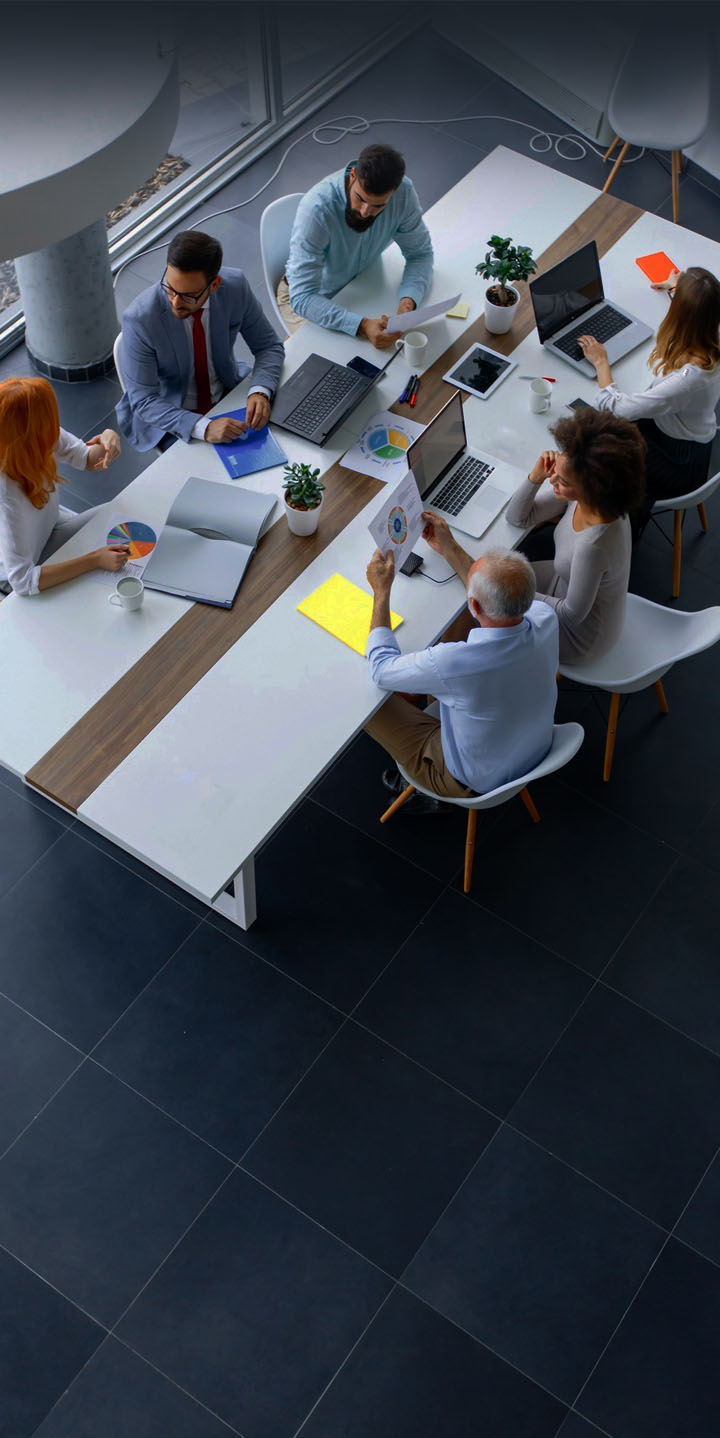
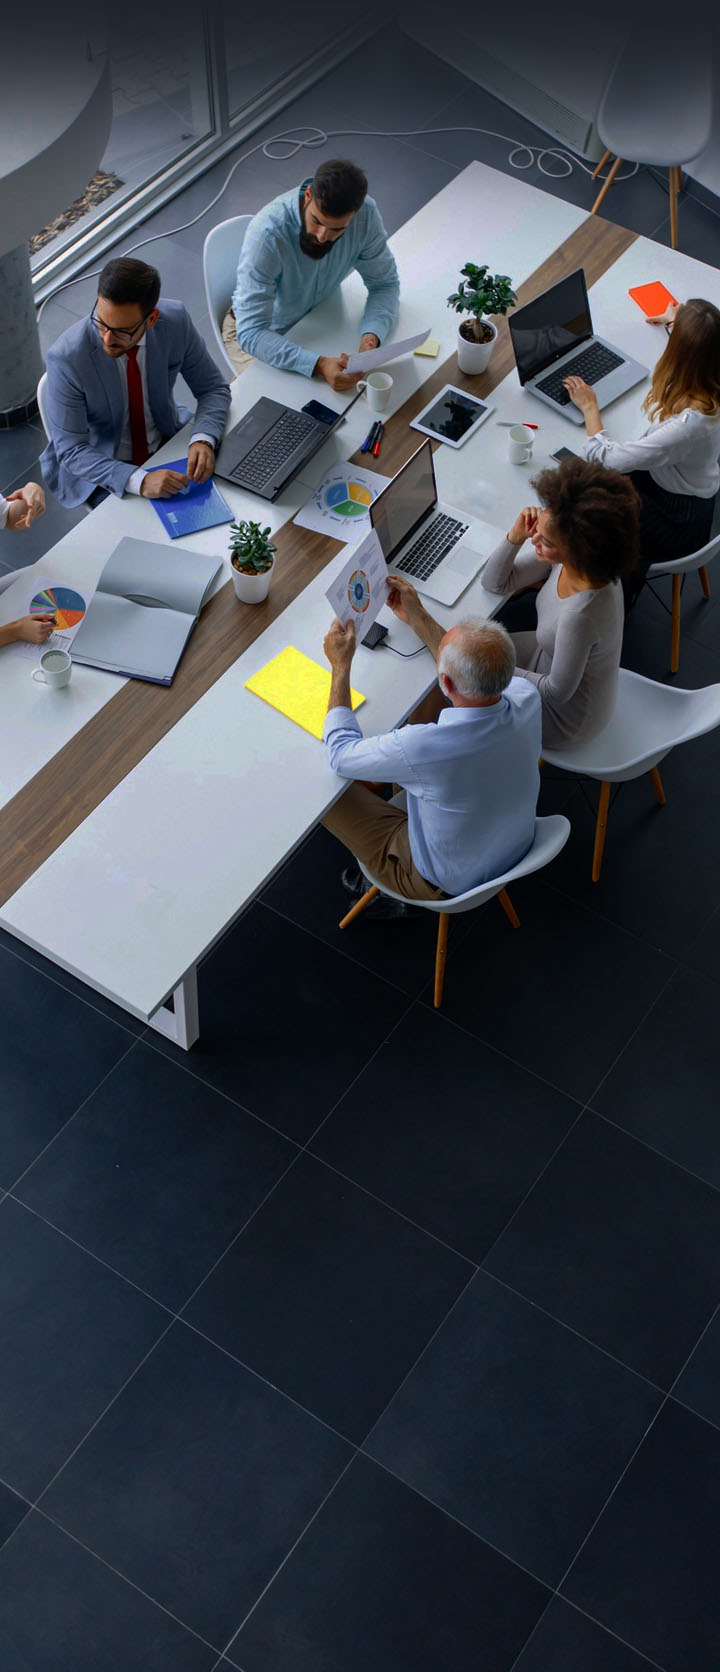
init

diff --git a/frontend/src/public/components/Banner/m-banner.css b/frontend/src/public/components/Banner/m-banner.css
@@ -47,17 +47,6 @@
     transition: all 2.5s ease;
 }
 
-.Banner__logo-nai-full{
-    position: absolute;
-    display: inline-block;
-    top: 79vw; 
-    left: 21vw;
-    width: 50vw;
-    height: auto;
-    filter: grayscale(1);
-    opacity: .75;
-}
-
 .banner__slogan {
     position: absolute;
     display: inline-block;
@@ -82,6 +71,17 @@
     color: rgb(170, 181, 187);
 }
 
+.Banner__logo-nai-full {
+    position: absolute;
+    display: inline-block;
+    top: 79vw; 
+    left: 21vw;
+    width: 50vw;
+    height: auto;
+    filter: grayscale(1);
+    opacity: .3;
+}
+
 .banner__logo-nai2 {
     position: absolute;
     display: inline-block;
@@ -89,7 +89,7 @@
     left: -40vw;
     width: 150vw;
     height: auto;
-    opacity: .5;
+    opacity: .3;
     filter: brightness(60%) grayscale(1);
 }
 

diff --git a/frontend/src/public/components/Banner/d-banner.css b/frontend/src/public/components/Banner/d-banner.css
@@ -56,7 +56,7 @@
         position: absolute;
         display: inline-block;
         top: 20vw;
-        left: 14vw;
+        left: 5vw;
         font-family: 'Archivo Black', sans-serif;
         font-size: 3vw;
         color: rgb(228, 228, 228);
@@ -76,6 +76,10 @@
         color: rgb(170, 181, 187);
     }
 
+    .Banner__logo-nai-full {
+        display: none;
+    }
+
     .banner__logo-nai2 {
         position: absolute;
         display: inline-block;
@@ -83,7 +87,7 @@
         left: -13vw;
         width: 60vw;
         height: auto;
-        opacity: .5;
+        opacity: .3;
         filter: brightness(60%) grayscale(1);
     }
 }

diff --git a/frontend/src/public/components/Header/index.jsx b/frontend/src/public/components/Header/index.jsx
@@ -101,7 +101,7 @@ const Header = () => {
 						className={ isOpen ? 'group visible' : 'group hidden'} 
 						src={background1} 
 						width='720px'
-						height='1438px'
+						height='1672px'
 						fetchpriority='high' 
 						alt='group' 
 					/>

diff --git a/frontend/src/public/components/Header/m-header.css b/frontend/src/public/components/Header/m-header.css
@@ -10,10 +10,9 @@
 
 .navbar-open {
 	background-color: rgb(6, 17, 22);
-	height: 199.8vw;
+	height: 230vw;
 	transition: height .4s, background-color 1.5s;
 	overflow: hidden;
-	
 }
 
 .navbar-closed {
